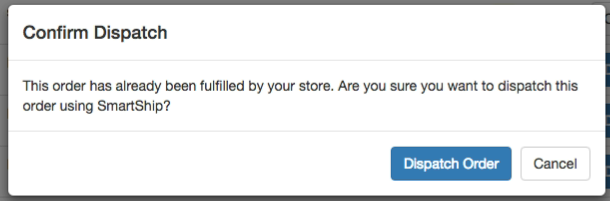
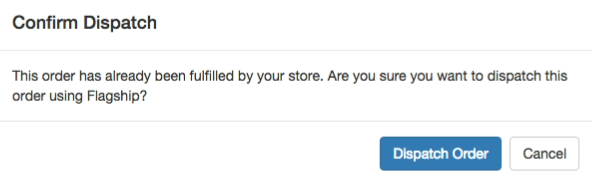
Updated documentation with new images of the app.

Changed region(s): [[0.0, 0.0, 1.0, 1.0]]

diff --git a/README.md b/README.md
@@ -142,7 +142,7 @@ Any online store order that was processed via the Flagship for Shopify App using
 **Note**: By dispatching an order using the Flagship for Shopify App, you will be charged for the dispatched order on the Flagship online shipping system.
 
 * **View on Flagship**
-![View On Flagship](img/view_on_smartship.png)
+![View On Flagship](img/view_on_flagship.png)
 Allows you to either see the overview for your order or continue the quoting process on the Flagship online shipping system. If your order was prequoted using the app, the link will bring you to the quote page for your order on the Flagship online shipping system. If the order was dispatched using the app, then the link will be the same, but will instead take you to the shipment overview page for the order on the Flagship online shipping system.
 
 ### Prepared Orders
